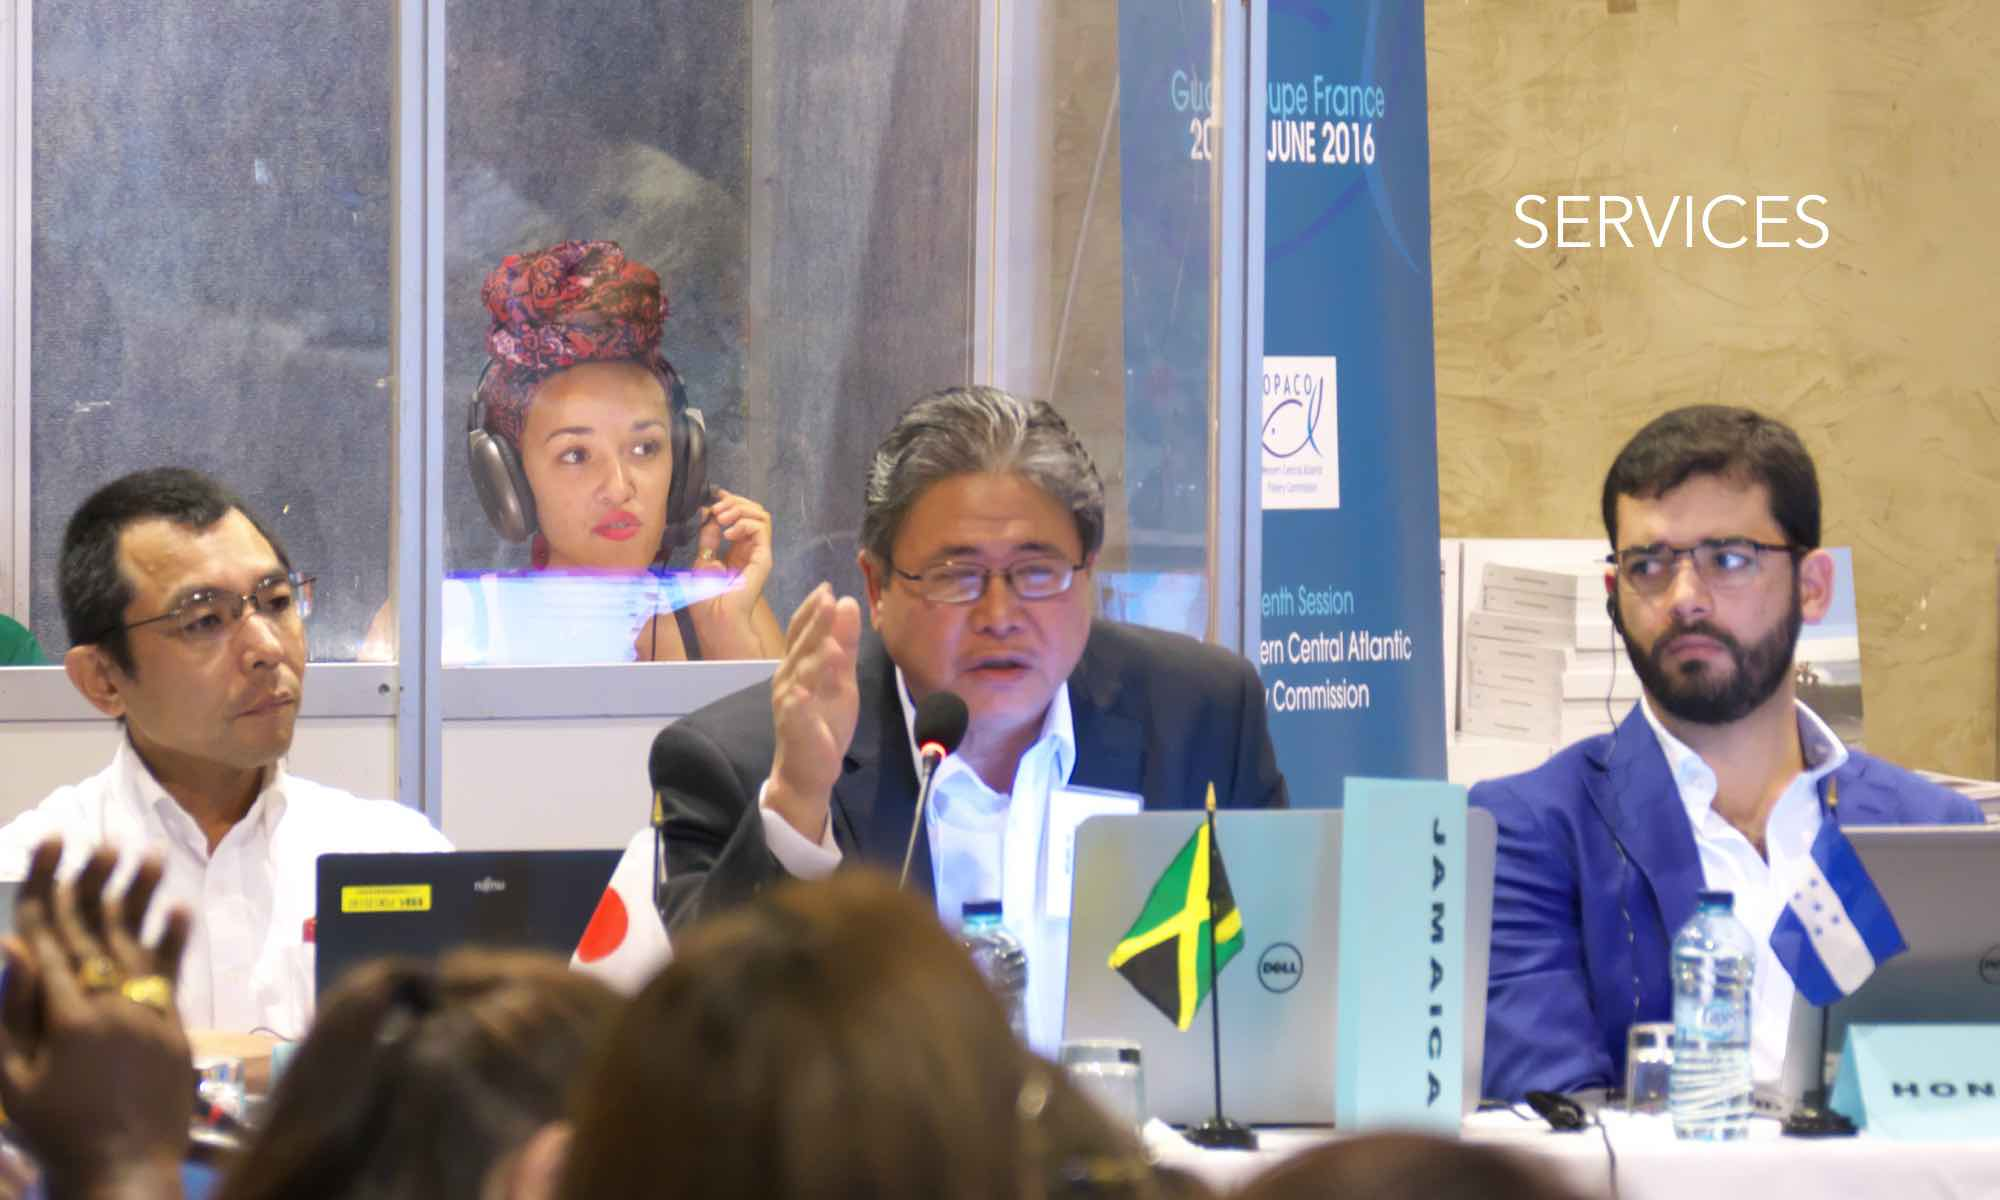
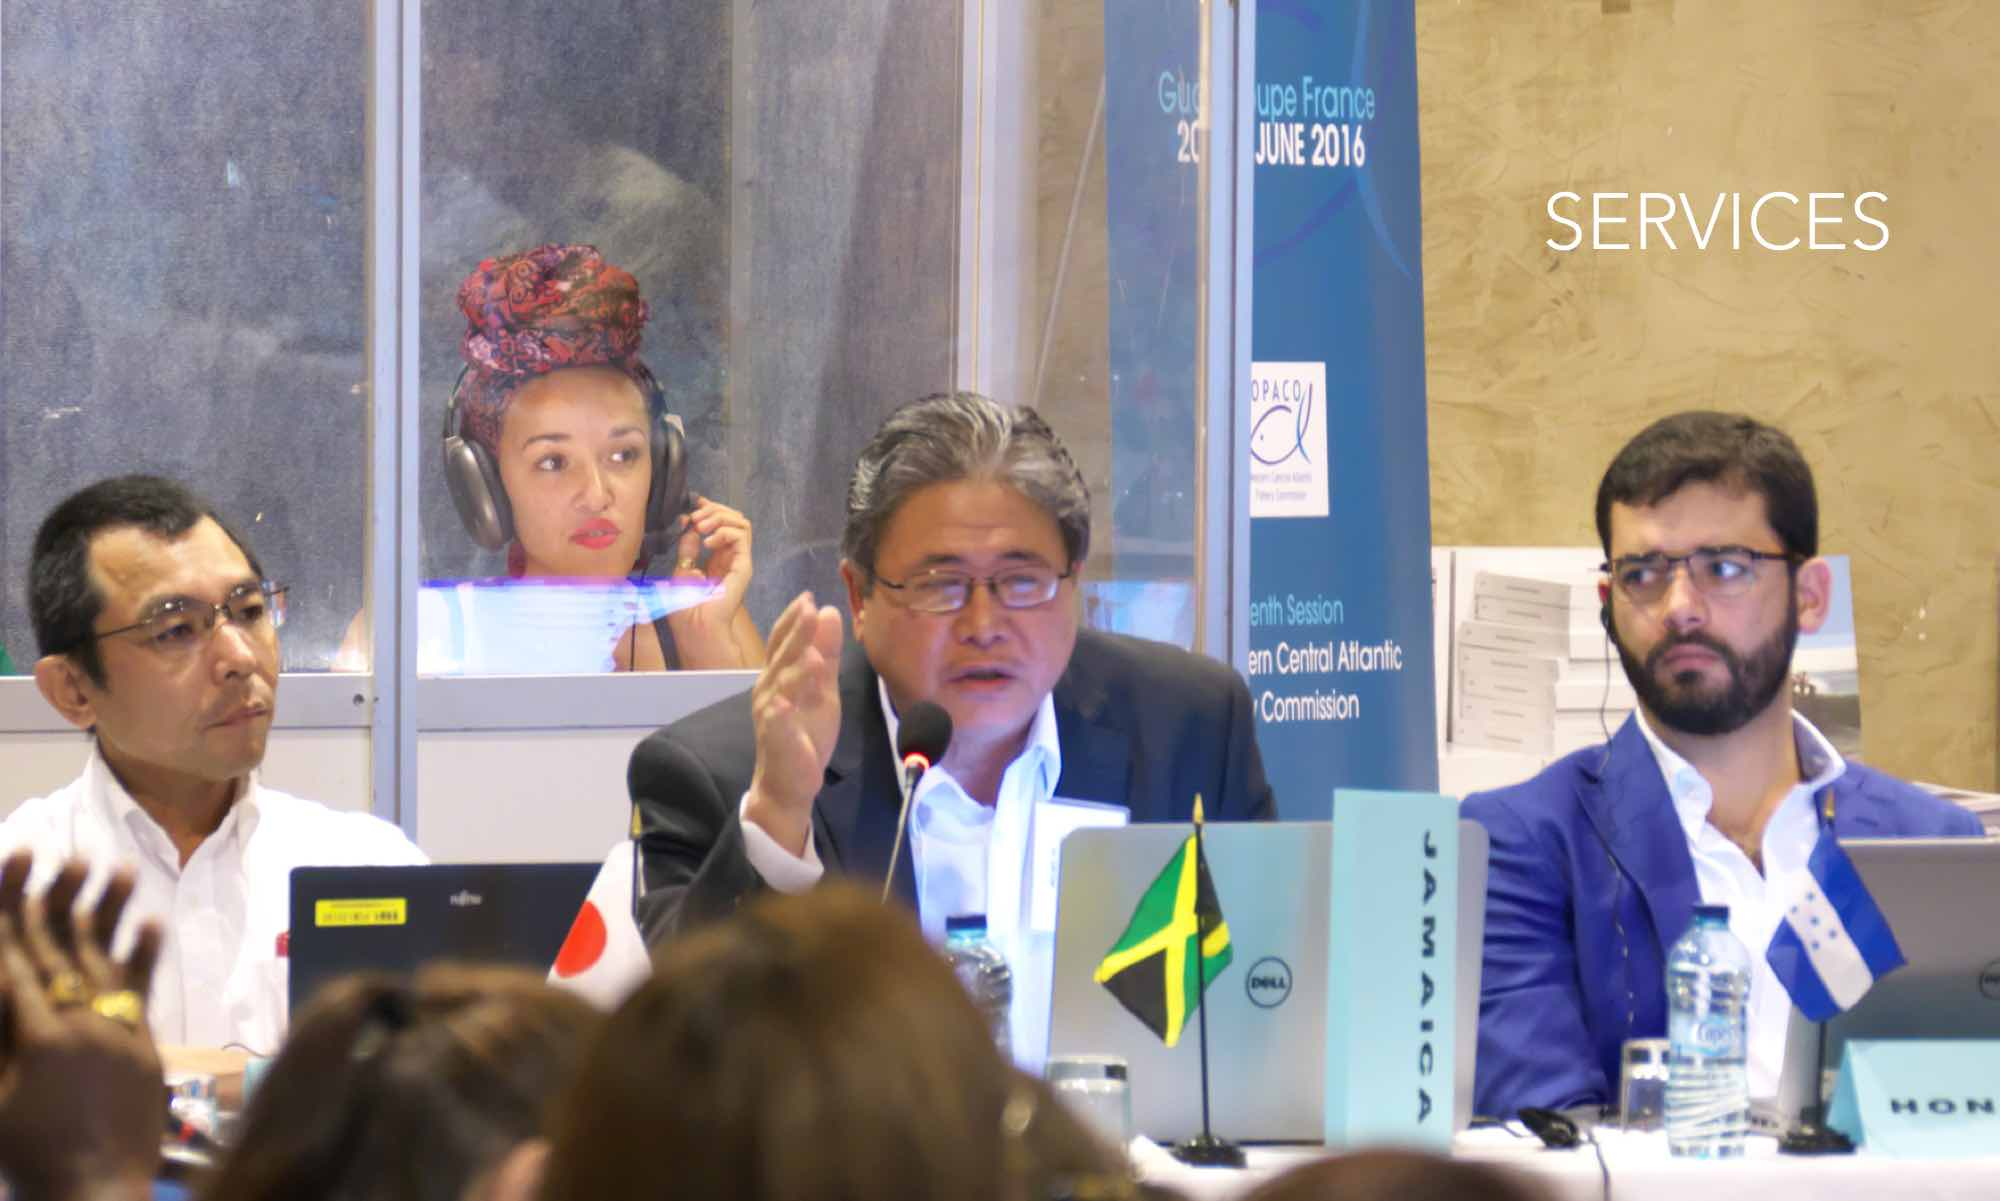
added img in params.translation

diff --git a/themes/twentyseventeen4hugo/layouts/index.html b/themes/twentyseventeen4hugo/layouts/index.html
@@ -29,7 +29,7 @@
 
           <!-- translation & interpreting-->
             <article id="services" class="twentyseventeen-panel  post-11 page type-page status-publish has-post-thumbnail hentry">
-              <div class="panel-image" style="background-image: url({{ .Site.BaseURL }}img/services.jpg);">
+              <div class="panel-image" style="background-image: url({{ .Site.BaseURL }}{{ .Site.Params.translation.img }});">
                 <div class="panel-image-prop" style="padding-top: 60%"></div>
               </div><!-- .panel-image -->
               <div class="panel-content">
